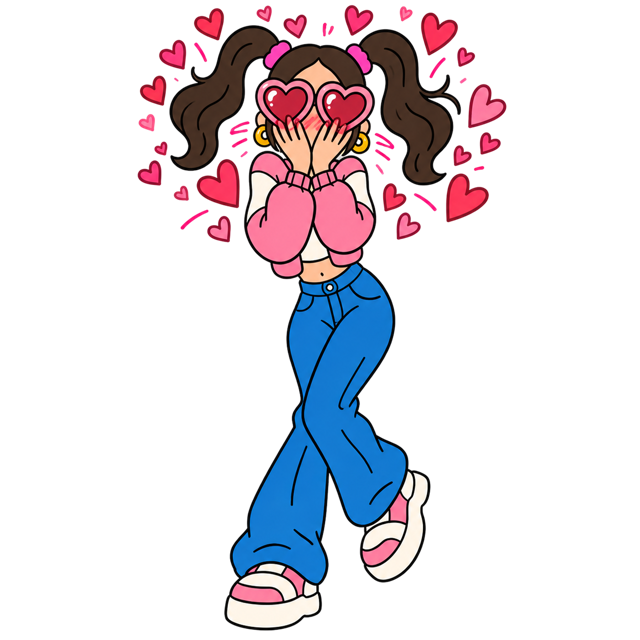
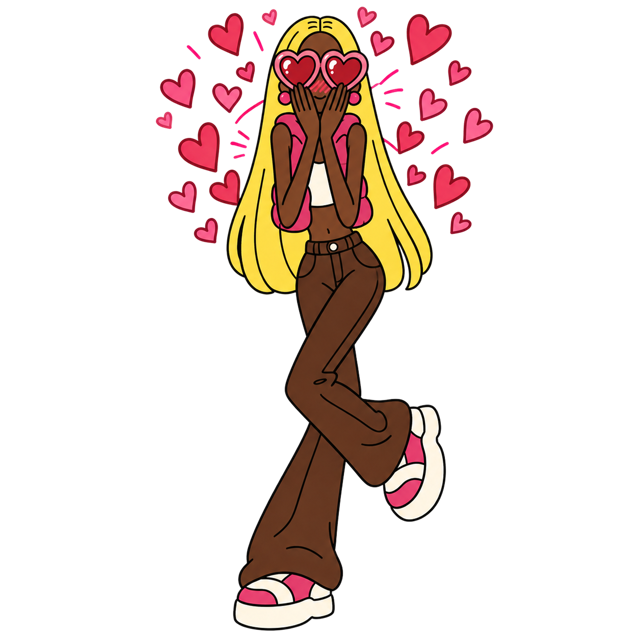
Ten pedestrians, random cast, couples are two different people

Changed region(s): [[0.2188, 0.0, 0.8125, 1.0]]

diff --git a/index.html b/index.html
@@ -78,6 +78,6 @@
     </div>
   </section>
 </main>
-<script type="module" src="./app.mjs?v=7"></script>
+<script type="module" src="./app.mjs?v=8"></script>
 </body>
 </html>
